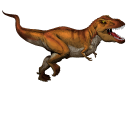
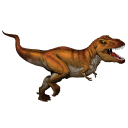
Completed Player class (No Runner), Sprite Updates

diff --git a/libGDX Practice Projects/core/src/com/mygdx/game/Player.java b/libGDX Practice Projects/core/src/com/mygdx/game/Player.java
@@ -3,14 +3,17 @@ import com.badlogic.gdx.Gdx;
 import com.badlogic.gdx.graphics.Texture;
 import com.badlogic.gdx.graphics.g2d.Sprite;
 import com.badlogic.gdx.graphics.g2d.SpriteBatch;
+import java.util.Stack;
+import static com.mygdx.game.Labyrinth.*;
 
 public class Player {
     int[] boardPosition;
     Texture smallTexture;
     Texture bigTexture;
     Sprite playerSprite;
+    boolean isBigSprite;
     int color;
-    Card[] hand;
+    Stack hand;
     int[] drawPos;
     boolean myTurn;
 
@@ -18,42 +21,88 @@ public class Player {
         switch(playerNum){
             case -3:
                 smallTexture = new Texture(Gdx.files.internal("Icon_BlueCircle.png"));
+                bigTexture = new Texture(Gdx.files.internal("Icon_BluePlayer.png"));
                 setBoardPosition(0,6);
                 break;
             case -4:
                 smallTexture = new Texture(Gdx.files.internal("Icon_YellowCircle.png"));
+                bigTexture = new Texture(Gdx.files.internal("Icon_YellowPlayer.png"));
                 setBoardPosition(6,0);
                 break;
             case -5:
                 smallTexture = new Texture(Gdx.files.internal("Icon_GreenCircle.png"));
+                bigTexture = new Texture(Gdx.files.internal("Icon_GreenPlayer.png"));
                 setBoardPosition(6,6);
                 break;
             case -2:
             default:
                 smallTexture = new Texture(Gdx.files.internal("Icon_RedCircle.png"));
+                bigTexture = new Texture(Gdx.files.internal("Icon_RedPlayer.png"));
                 setBoardPosition(0,0);
                 break;
         }
+        isBigSprite = false;
+        playerSprite = new Sprite(smallTexture);
+        playerSprite.setSize(128,128);
     }
 
     void draw(SpriteBatch batch){
         playerSprite.draw(batch);
     }
 
+    void deal(Card card){
+        hand.add(card);
+    }
+
     void setPosition(int x, int y){
-        //WIP
+        playerSprite.setPosition(x,y);
     }
 
     void setPosition(Tile tile){
-        //WIP
+        int[] tilePos = tile.getTilePosition();
+        playerSprite.setPosition(tilePos[0] + Width/30, tilePos[1] + Height/30);
     }
 
     void setBoardPosition(int x, int y){
-
-        //WIP
-
+        boardPosition[0] = x;
+        boardPosition[1] = y;
     }
 
+    void swapSprite(){
+        if(isBigSprite){
+            playerSprite.setTexture(smallTexture);
+            isBigSprite = false;
+        }else{
+            playerSprite.setTexture(bigTexture);
+            isBigSprite = true;
+        }
+    }
 
+    int getPlayer(){
+        return color;
+    }
 
+    void foundCard(){
+        hand.pop();
+    }
+
+    void showCard(SpriteBatch batch){
+        ((Card)hand.peek()).draw(batch);
+    }
+
+    int[] getBoardPosition(){
+        return boardPosition;
+    }
+
+    int[] getPosition(){
+        return drawPos;
+    }
+
+    boolean isMyTurn(){
+        return myTurn;
+    }
+
+    void setMyTurn(boolean turn){
+        myTurn = turn;
+    }
 }
